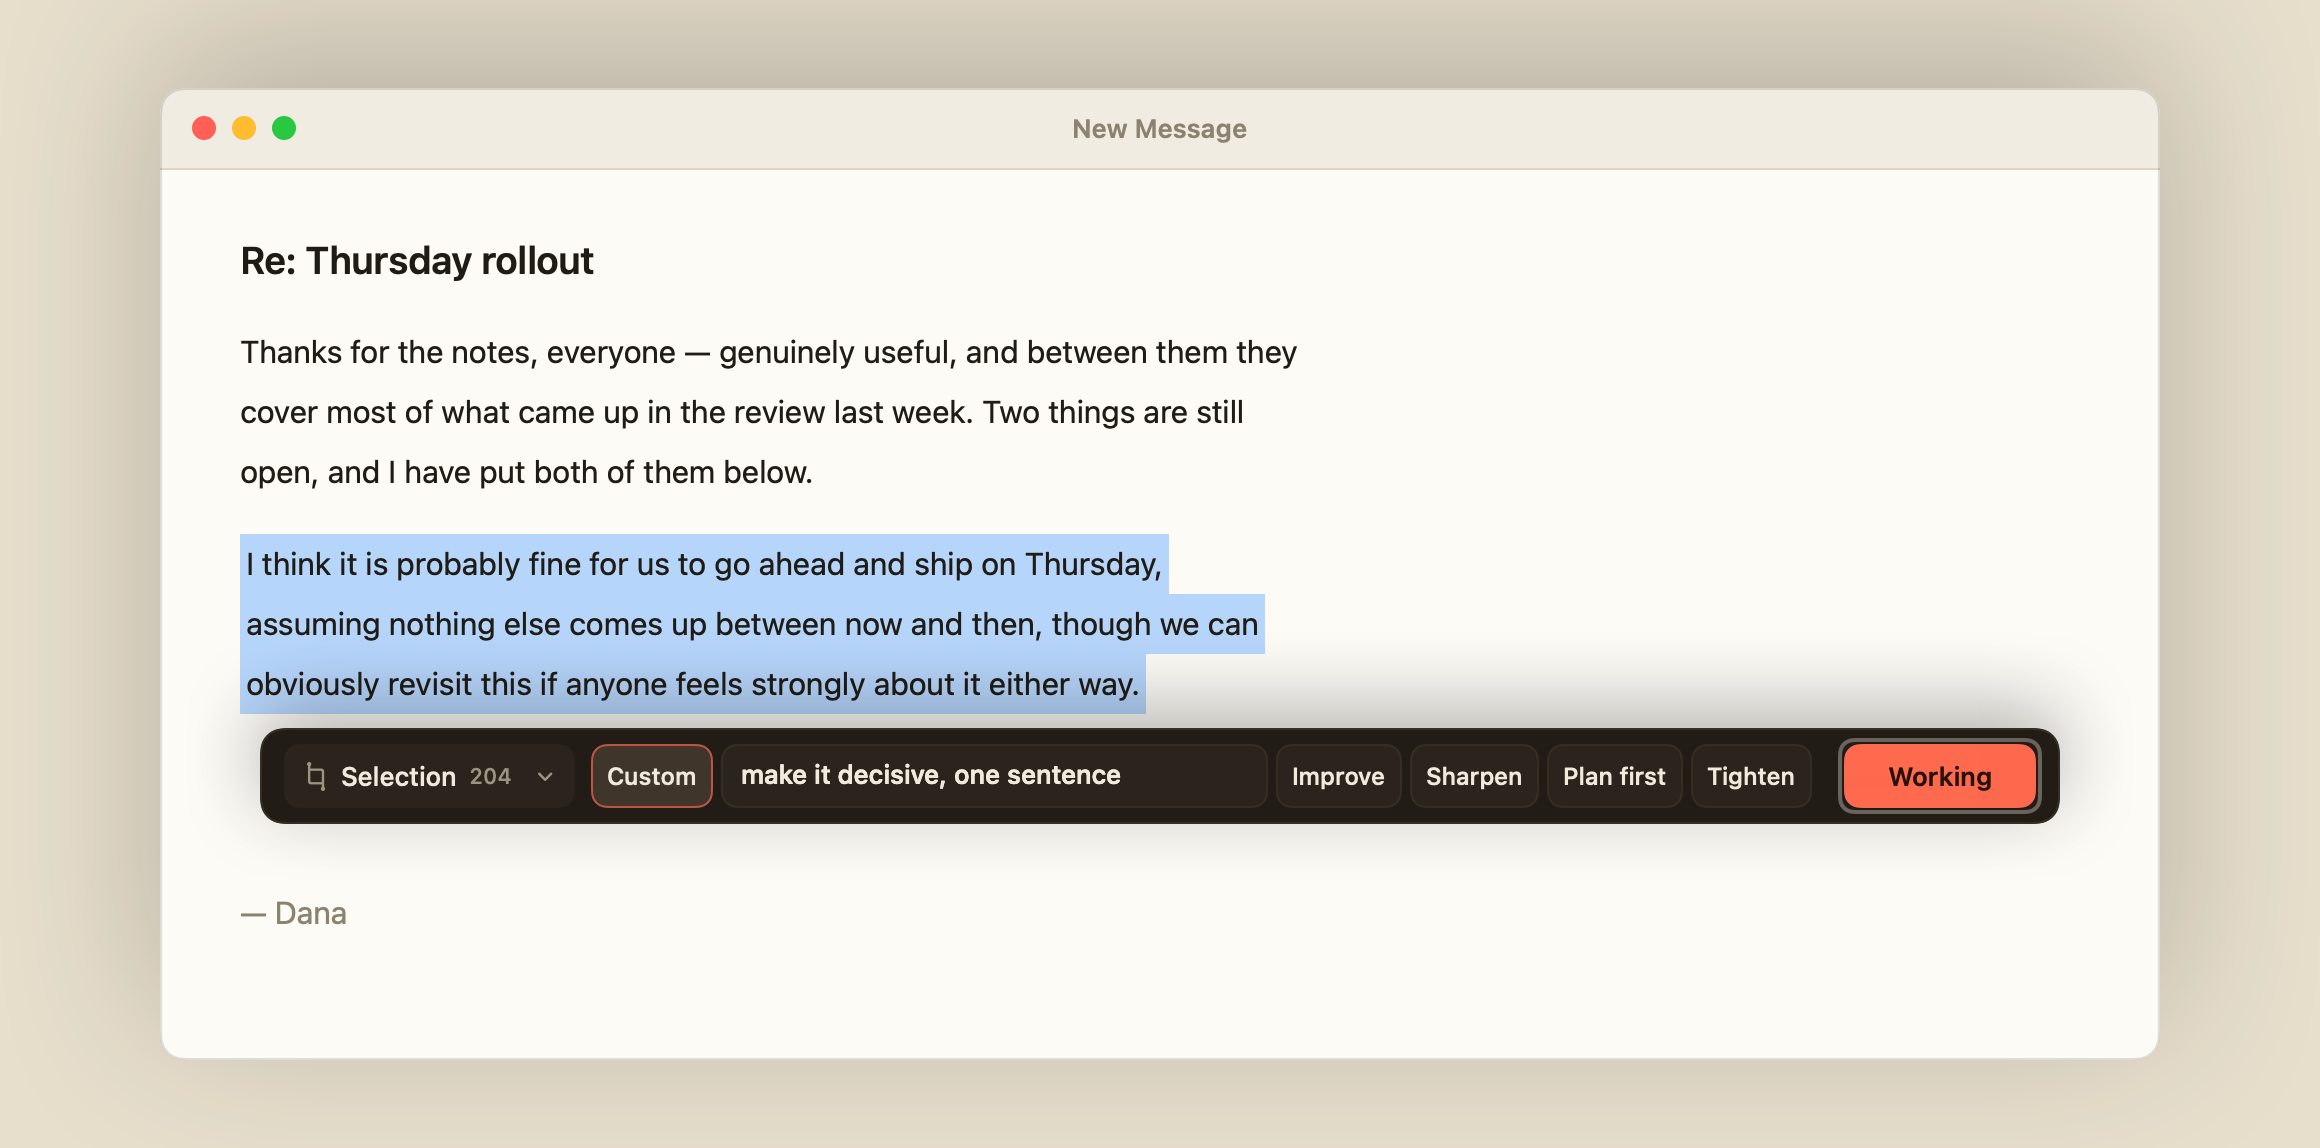
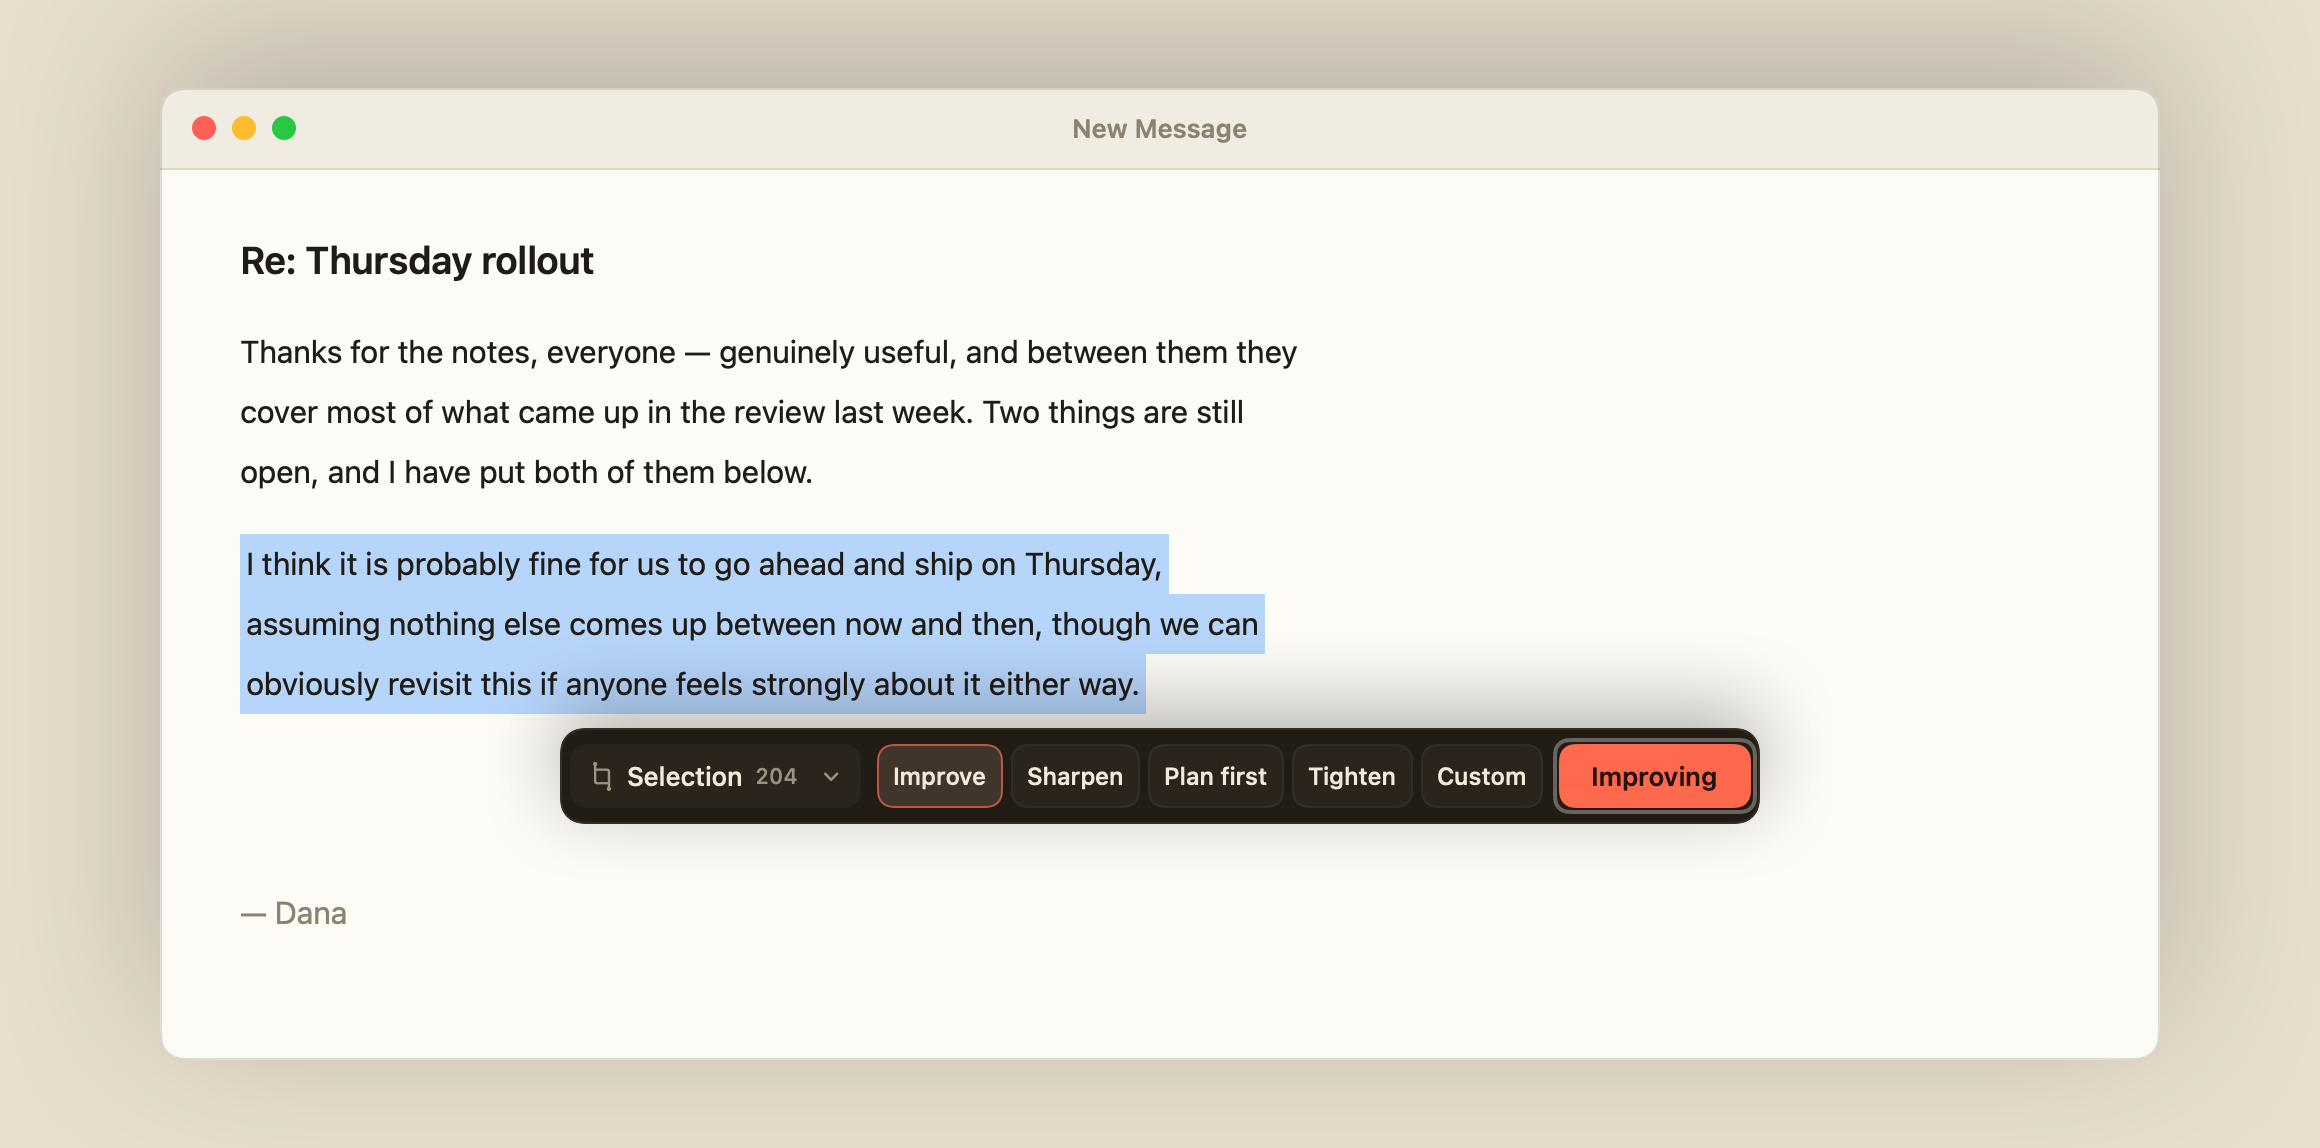
Refresh README action guidance and screenshot

Changed region(s): [[0.0931, 0.5793, 0.9, 0.7317]]

diff --git a/Sources/Mancia/DocsShot.swift b/Sources/Mancia/DocsShot.swift
@@ -22,11 +22,6 @@ enum DocsShot {
         let model = PanelModel()
         model.hasSelection = true
         model.selectionCharCount = Copy.selection.joined(separator: " ").count
-        model.selectCustomInstruction()
-        // Run rather than Direction: a focused `TextField` renders its contents
-        // selected, and a wash over the typed instruction is a rendering
-        // artifact, not something a user ever sees. The instruction itself is
-        // filled in after the first layout, below, for the same reason.
         model.focusedCell = .run
 
         let scene = ShotScene(model: model)
@@ -47,12 +42,7 @@ enum DocsShot {
         window.makeKeyAndOrderFront(nil)
         host.layoutSubtreeIfNeeded()
         // SwiftUI resolves fonts, symbols and materials over a few turns of the
-        // run loop; drawing before it settles yields a half-built lane. The
-        // instruction lands in the second turn, once the field has taken and
-        // released focus over an empty string, so there is nothing for the
-        // select-all that focus performs to leave a wash over.
-        RunLoop.current.run(until: Date().addingTimeInterval(0.8))
-        model.instruction = Copy.instruction
+        // run loop; drawing before it settles yields a half-built lane.
         RunLoop.current.run(until: Date().addingTimeInterval(0.8))
 
         guard
@@ -102,7 +92,7 @@ private enum Layout {
     static let titleBar: CGFloat = 40
     static let bodyInset: CGFloat = 40
     static let lineHeight: CGFloat = 30
-    static let ribbonWidth = RibbonPlacement.maximumWidth
+    static let ribbonWidth = RibbonPlacement.standardWidth
 
     /// Top of the first body line, below the title bar and the heading.
     static let textTop = window.minY + titleBar + 34 + 42
@@ -128,7 +118,6 @@ private enum Copy {
         "obviously revisit this if anyone feels strongly about it either way.",
     ]
     static let sign = "— Dana"
-    static let instruction = "make it decisive, one sentence"
 }
 
 private enum Ink {

diff --git a/README.md b/README.md
@@ -16,17 +16,17 @@
   <img src="https://img.shields.io/badge/Swift-6-orange?logo=swift" alt="Swift 6">
 </p>
 
-Select text anywhere on your Mac, press a shortcut or click an action, and say
-what you want changed. Mancia runs the edit through GitHub Copilot CLI and
-replaces the text in place — no chat window, no copy-paste round trip.
+Select text anywhere on your Mac, choose the result you need, and Mancia runs
+the edit through GitHub Copilot CLI and replaces the text in place — no chat
+window, no copy-paste round trip.
 
 <p align="center">
-  <img src="docs/assets/mancia-ribbon.png" alt="A mail draft with a paragraph selected. The expanded Mancia command ribbon sits below it with Custom selected, a typed instruction, four visible built-in action buttons, and a Working button." width="880">
+  <img src="docs/assets/mancia-ribbon.png" alt="A mail draft with a paragraph selected and Mancia's command ribbon below it, showing Improve, Sharpen, Plan first, Tighten, Custom, and an Improving button." width="880">
 </p>
 
 - Works in any app with standard **Copy**, **Select All** and **Paste**.
 - The ribbon opens **against the text you selected**, not in a corner of the screen.
-- Five visible action buttons: **Improve**, three focused presets, and **Custom**.
+- **Improve** polishes everyday prose, **Sharpen** turns rough requests into clear instructions, **Plan first** asks an agent to investigate before changing anything, and **Tighten** cuts words without losing requirements.
 - Press **⌘Z** to step back through applied versions.
 - Your clipboard is snapshotted and restored after every edit.
 - No telemetry, no Dock icon, no direct calls to any AI API.
@@ -74,9 +74,10 @@ signed, so macOS asks again after each rebuild.
 
 1. Select text in any app.
 2. Press <kbd>⌃</kbd><kbd>⌥</kbd><kbd>⌘</kbd><kbd>E</kbd>.
-3. Click a built-in action or press <kbd>⌘1</kbd>…<kbd>⌘4</kbd> to run it
-   immediately. Click **Custom** or press <kbd>⌘5</kbd> to expand the ribbon and
-   type what you need — *“make it decisive, one sentence”*, *“rewrite in a
+3. Choose the outcome you need with **Improve**, **Sharpen**, **Plan first** or
+   **Tighten**; click it or press <kbd>⌘1</kbd>…<kbd>⌘4</kbd> to run it
+   immediately. For anything else, click **Custom** or press <kbd>⌘5</kbd> and
+   describe the result — *“make it decisive, one sentence”*, *“rewrite in a
    friendlier tone”*, *“turn these notes into bullets”*.
 
 The result replaces the selection in place. With nothing selected, Mancia takes
